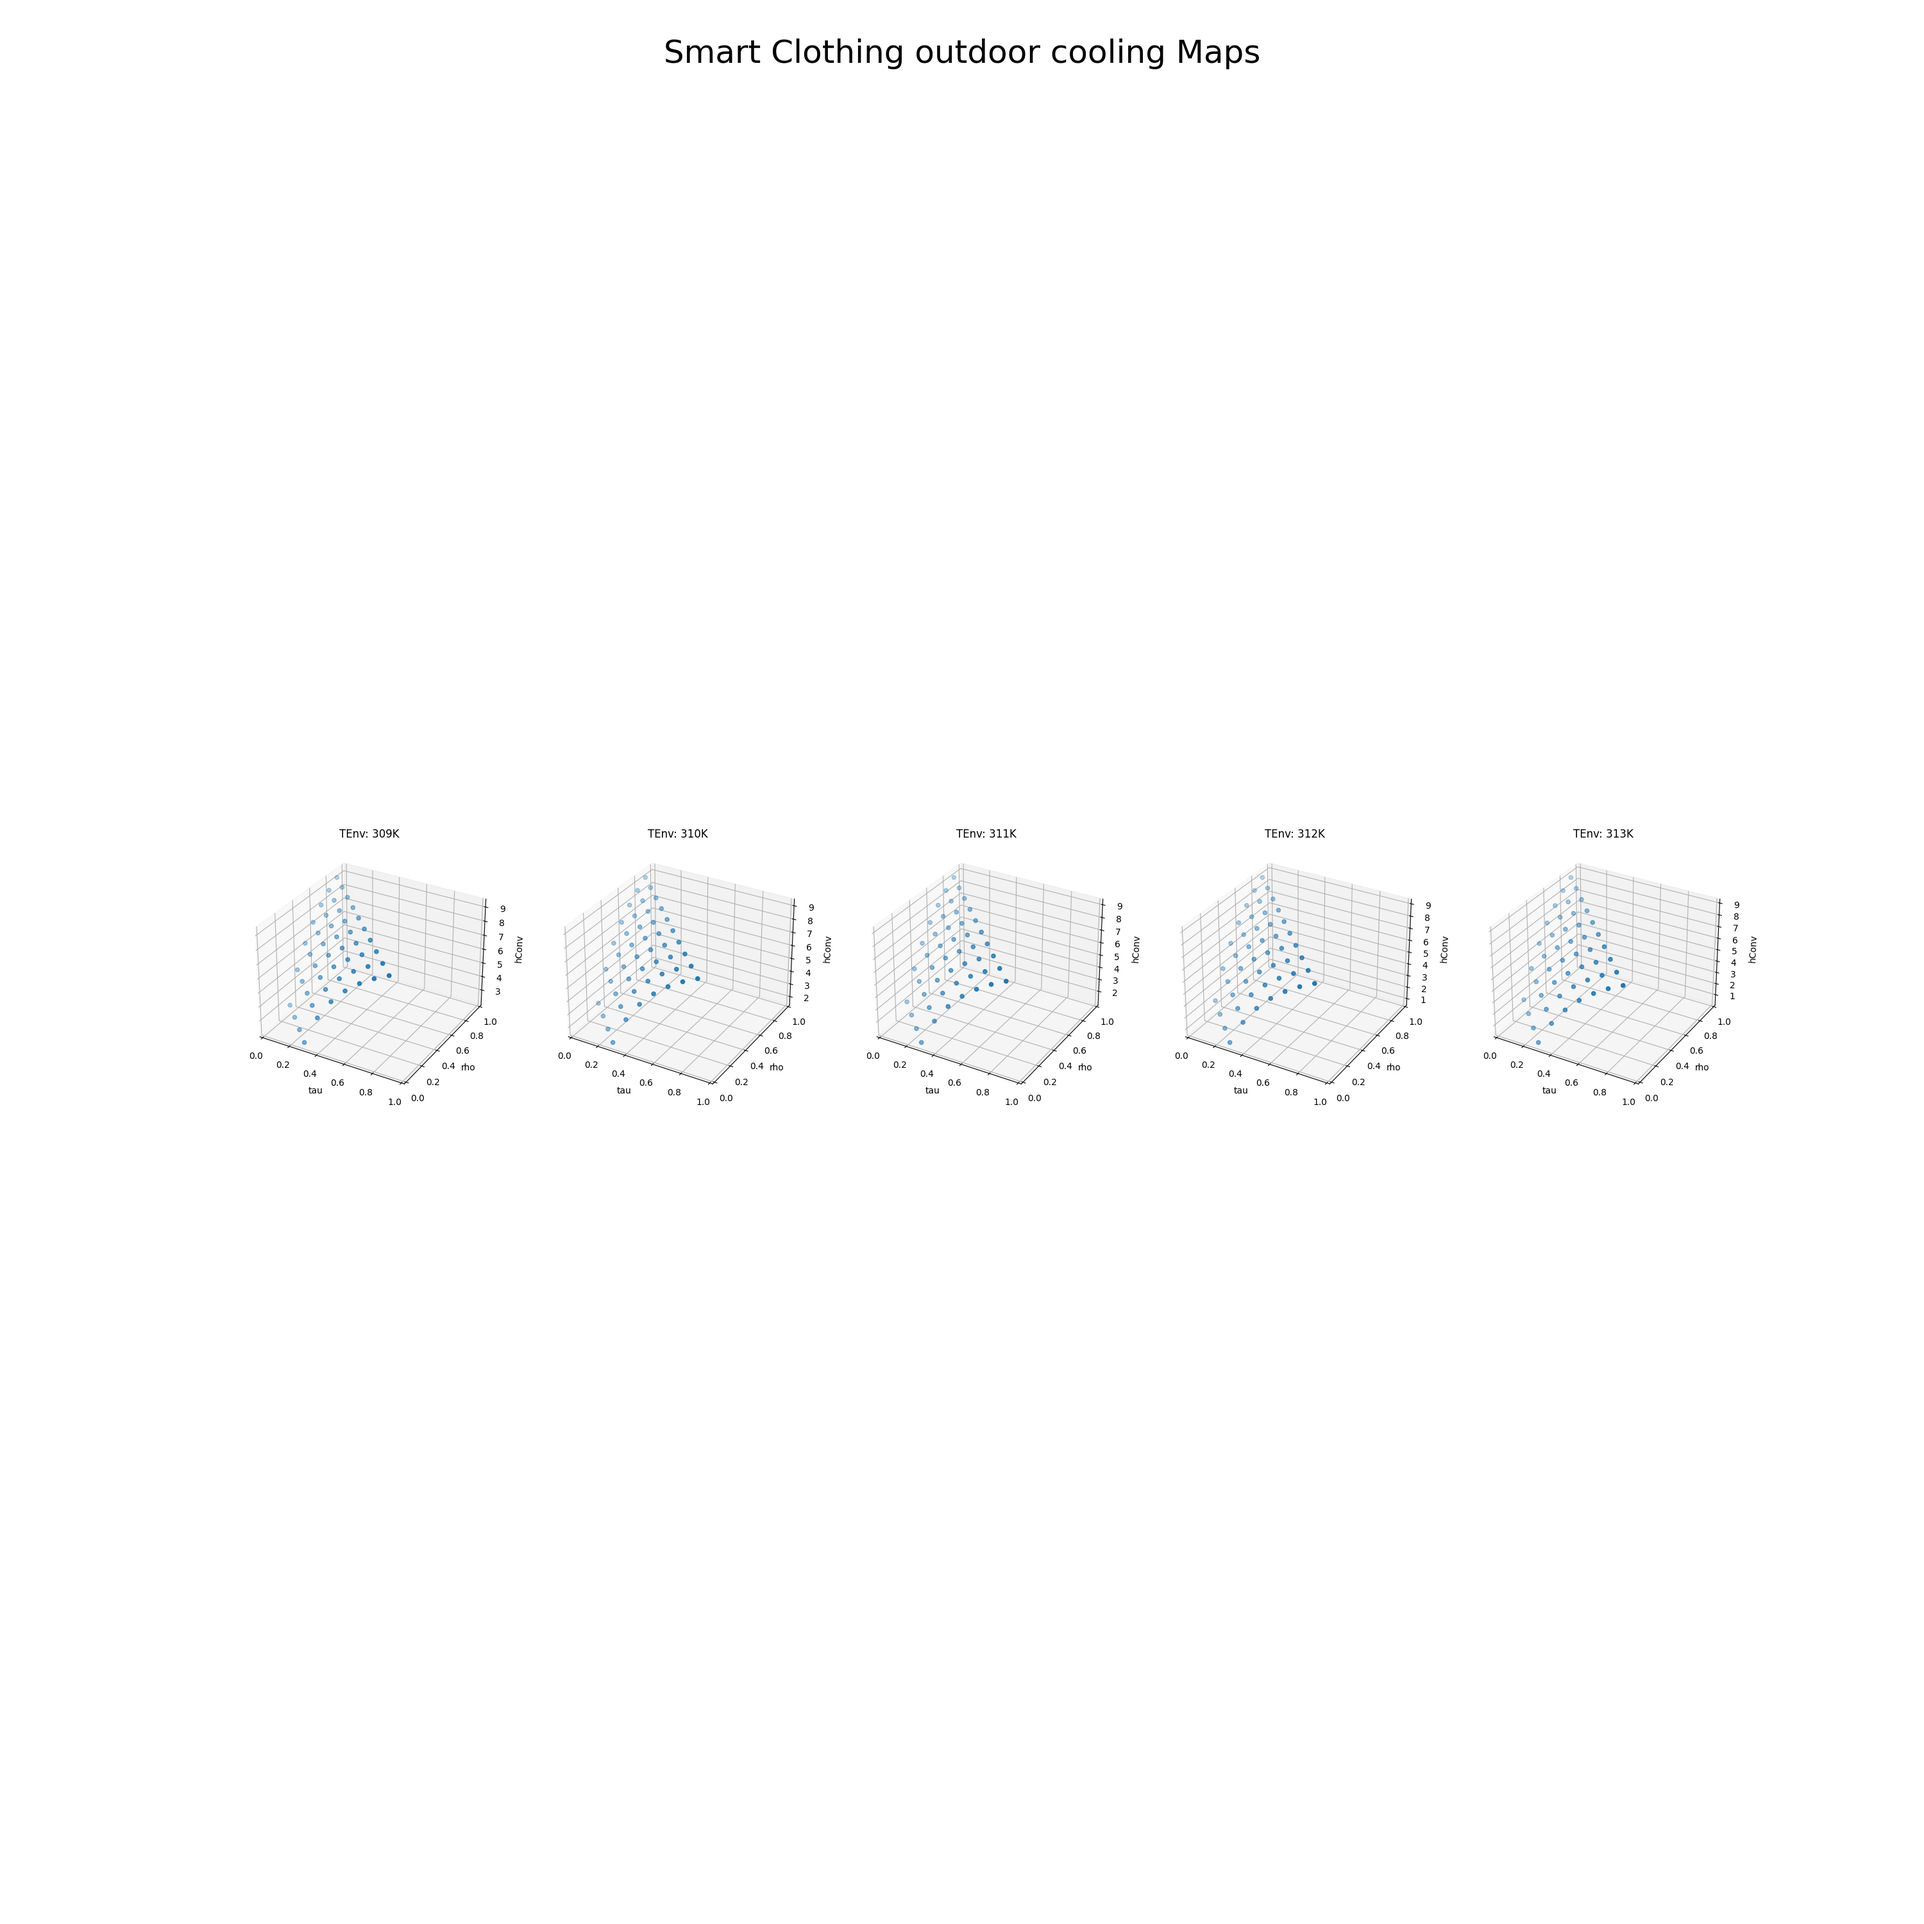
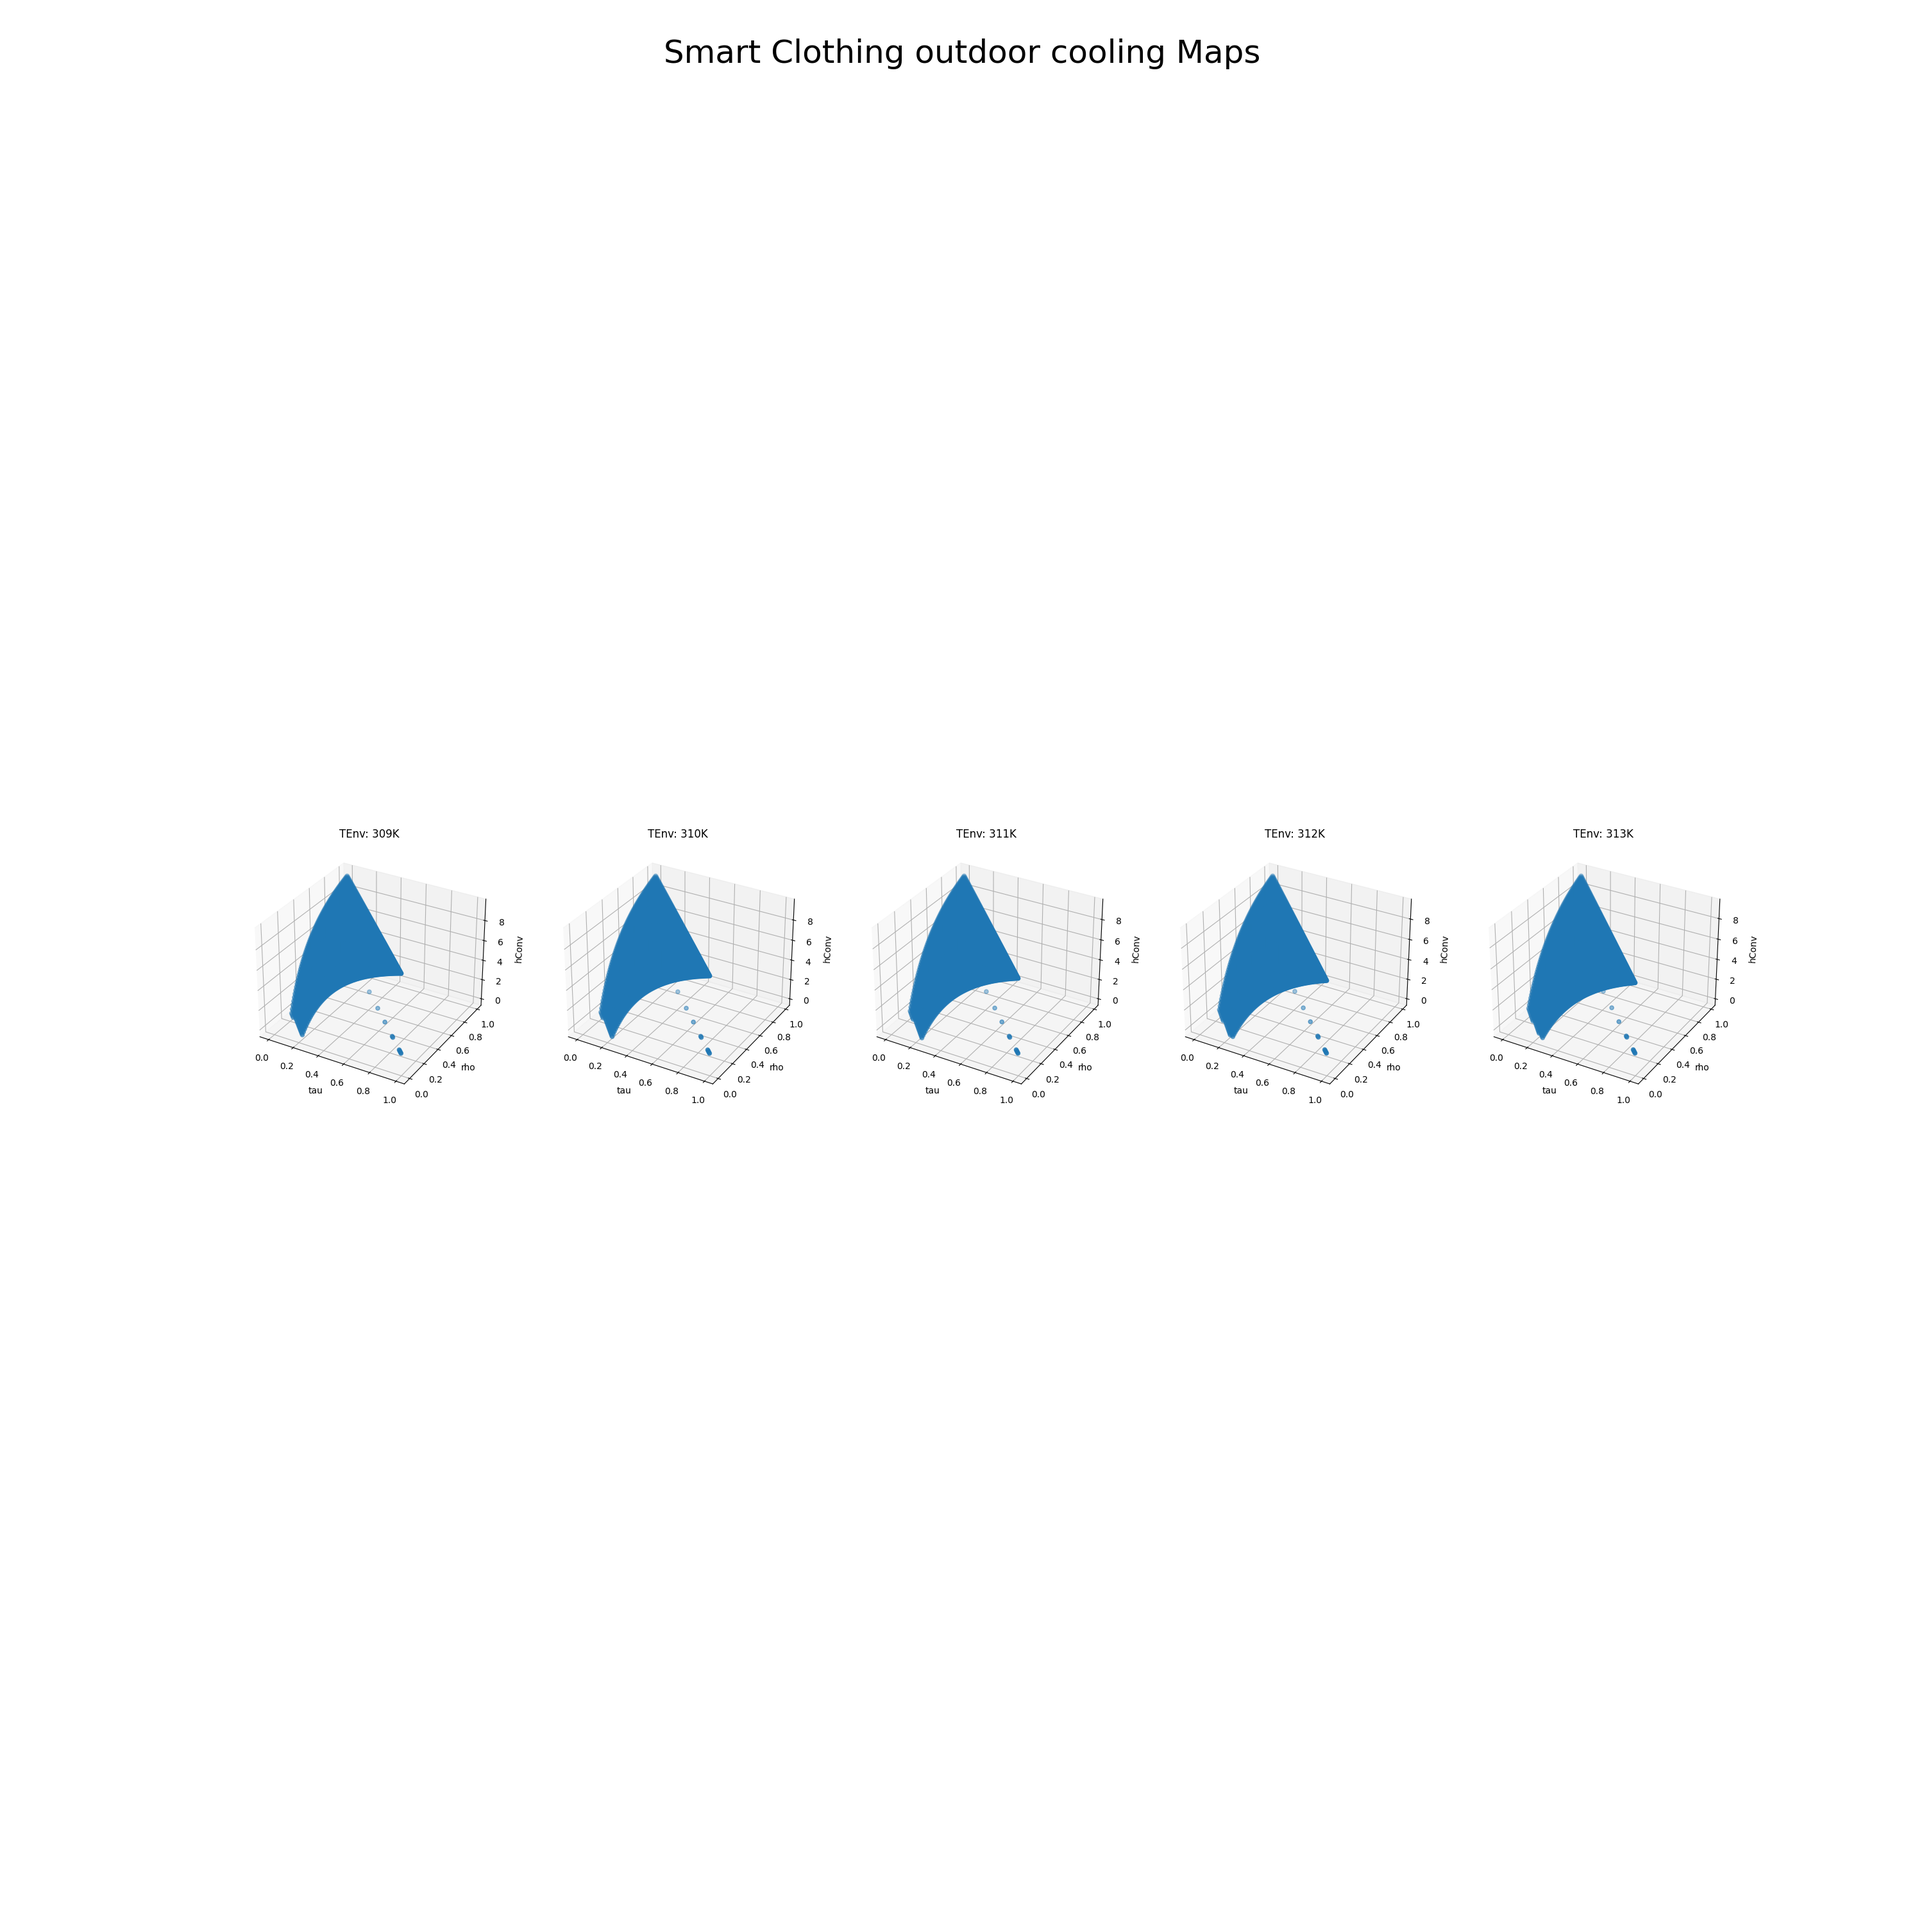
refactor

diff --git a/insulation.py b/insulation.py
@@ -27,8 +27,8 @@ import matplotlib
 # degree C
 TBody = 34 + 273
 # opereation = "heating"
-# opereation = "indoor cooling"
-opereation = "outdoor cooling"
+opereation = "indoor cooling"
+# opereation = "outdoor cooling"
 #
 if (opereation == "heating"):
     TEnvLow = 12 + 273
@@ -76,9 +76,9 @@ for TEnv in range(TEnvLow,TEnvHigh):
     epsilonCloList = []
     qRE = sigma * TEnv ** 4
 
-    for tauClo in np.linspace(0, 1, 11):
+    for tauClo in np.linspace(0, 1, 101):
         # tauClo = 0.03
-        for rhoClo in np.linspace(0, 1, 11):
+        for rhoClo in np.linspace(0, 1, 101):
             # rhoClo = 0.3
             if (tauClo + rhoClo) > 1:
                 continue
@@ -145,8 +145,8 @@ def loop_plot(plots,len):
             ax.set_xlabel('tau')
             ax.set_ylabel('rho')
             ax.set_zlabel('hConv')
-            plt.xlim([0, 1])
-            plt.ylim([0, 1])
+            # plt.xlim([0, 1])
+            # plt.ylim([0, 1])
             # xyLabel =False
     return figs
 figs = loop_plot(plots,len(X))
